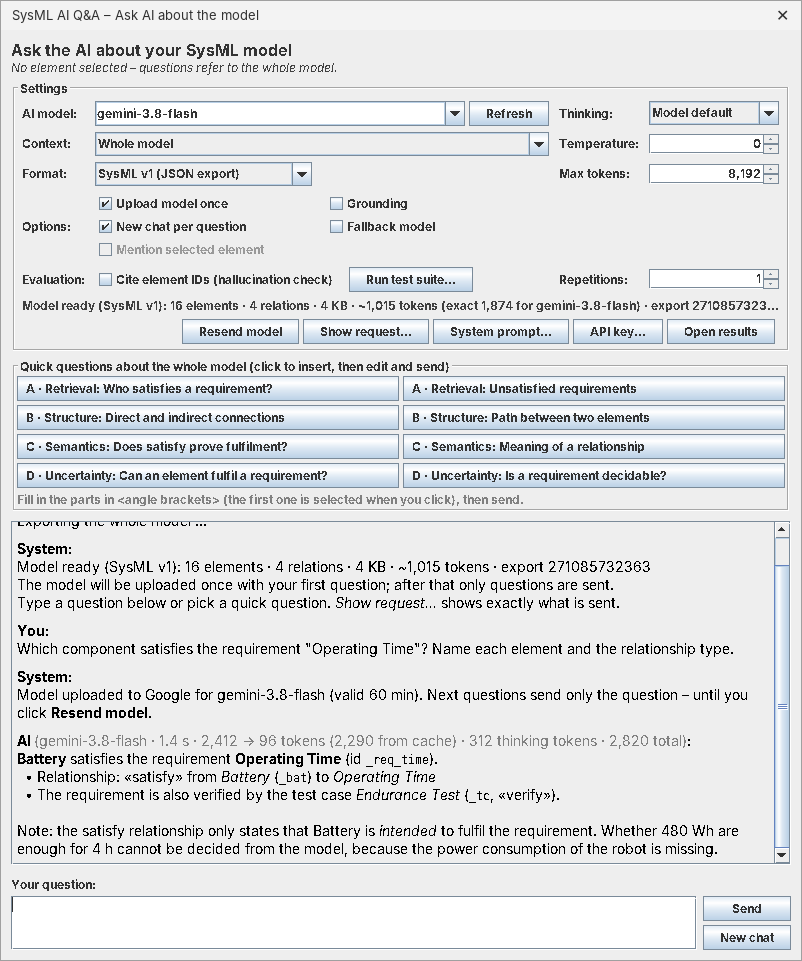
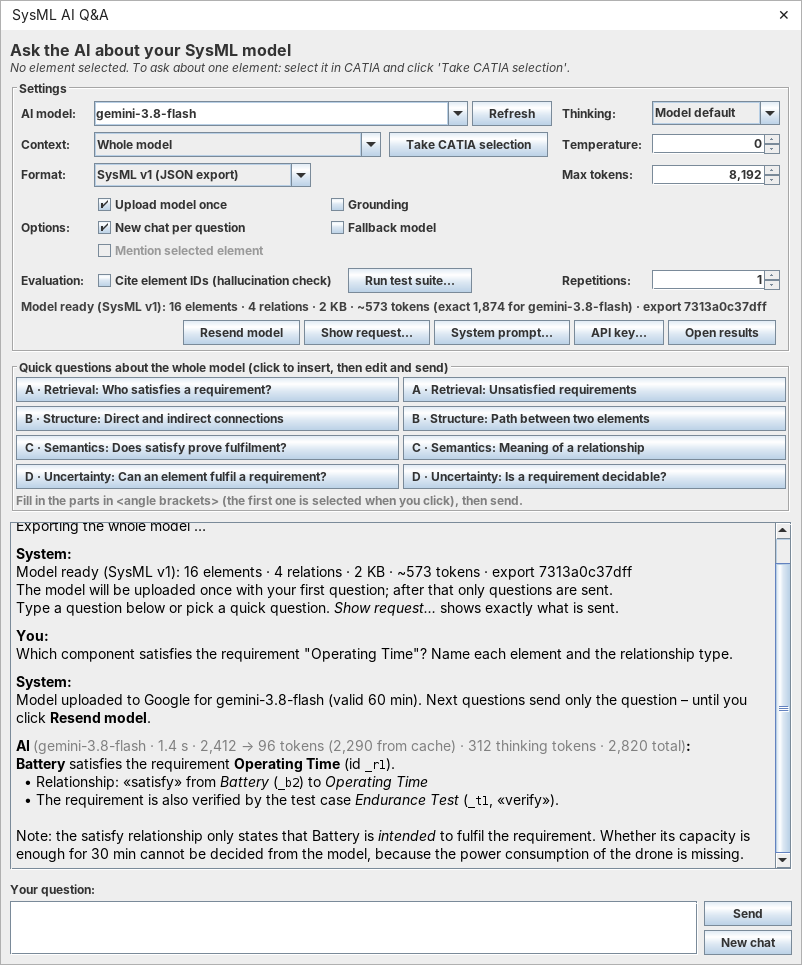
Handbook for v3.5: new window screenshots, button renamed
- Window screenshots regenerated for the new flow (export on button, fixed
  title, greyed context option, Take CATIA selection): start-05, start-06,
  window-numbered, settings-numbered, window-element, context-selection,
  chat-answer, stop-button, window-sysml2, format-sysml2,
  test-suite-finished; new context-unavailable.png.
- "Use selection" in the main window renamed to "Take CATIA selection" so it
  is not confused with "Use selection" in the package picker; disabled for
  SysML v2 models like the context field.
- HANDBUCH: captions and SysML v2 steps adjusted.

Claude-Session: https://claude.ai/code/session_01PMQtB66WZdP54zdPYPKWFc

Changed region(s): [[0.0, 0.0, 0.9975, 0.9365], [0.8416, 0.9365, 0.9975, 0.999], [0.0, 0.2185, 0.0935, 0.2497]]

diff --git a/src/de/hm/sysmlaiqa/ui/ExplanationDialog.java b/src/de/hm/sysmlaiqa/ui/ExplanationDialog.java
@@ -60,6 +60,7 @@ public class ExplanationDialog extends JDialog {
     private Element focusElement;          // angeklicktes/übernommenes Element (darf null sein)
     private JLabel focusLabel;
     private JButton exportBtn;
+    private JButton useSelectionBtn;
     private String exportedKey = null;      // Context des aktuellen Exports (siehe exportKey())
     private JPanel quickPanel;
     private long quickSeed = System.nanoTime();
@@ -111,7 +112,7 @@ public class ExplanationDialog extends JDialog {
 
     /**
      * @param focusElement angeklicktes bzw. ausgewähltes Element (darf null sein). Es ist im Context-Feld als
-     *                     "Selected element + surroundings" wählbar und kann im Fenster mit "Use selection" ersetzt werden.
+     *                     "Selected element + surroundings" wählbar und kann im Fenster mit "Take CATIA selection" ersetzt werden.
      */
     public ExplanationDialog(Element focusElement) {
         // Kein "always on top" mehr: Das Fenster gehört zum CATIA-Hauptfenster. Es bleibt dadurch über CATIA,
@@ -191,7 +192,7 @@ public class ExplanationDialog extends JDialog {
 
     private String focusText() {
         return focusElement == null
-                ? "No element selected. To ask about one element: select it in CATIA and click 'Use selection'."
+                ? "No element selected. To ask about one element: select it in CATIA and click 'Take CATIA selection'."
                 : "Selected element: " + getFocusName() + " [" + focusElement.getHumanType() + "]";
     }
 
@@ -228,7 +229,7 @@ public class ExplanationDialog extends JDialog {
                 if (unavailable) {
                     setForeground(UIManager.getColor("Label.disabledForeground") != null
                             ? UIManager.getColor("Label.disabledForeground") : Color.GRAY);
-                    setToolTipText("No element selected – select one in CATIA and click 'Use selection'.");
+                    setToolTipText("No element selected – select one in CATIA and click 'Take CATIA selection'.");
                 } else {
                     setToolTipText(null);
                 }
@@ -243,7 +244,7 @@ public class ExplanationDialog extends JDialog {
         chooseBtn.addActionListener(e -> {
             if (chooseSelection()) updateControls();
         });
-        JButton useSelectionBtn = new JButton("Use selection");
+        useSelectionBtn = new JButton("Take CATIA selection");
         useSelectionBtn.setToolTipText("<html>Takes the element currently selected in CATIA (containment tree, diagram or table row)<br>"
                 + "as the selected element and switches the context to 'Selected element + surroundings'.</html>");
         useSelectionBtn.addActionListener(e -> useCurrentSelection());
@@ -402,7 +403,7 @@ public class ExplanationDialog extends JDialog {
                 loading = true;
                 scopeBox.setSelectedItem(lastScopeChoice);
                 loading = false;
-                addMessage("System", "No element selected. Select an element in CATIA and click <b>Use selection</b>.");
+                addMessage("System", "No element selected. Select an element in CATIA and click <b>Take CATIA selection</b>.");
                 return;
             }
             if (isSelectionScope() && selectedRoots.isEmpty() && !chooseSelection()) {
@@ -808,7 +809,7 @@ public class ExplanationDialog extends JDialog {
         return true;
     }
 
-    /** "Use selection": das in CATIA ausgewählte Element übernehmen und den Context darauf stellen. */
+    /** "Take CATIA selection": das in CATIA ausgewählte Element übernehmen und den Context darauf stellen. */
     private void useCurrentSelection() {
         if (busy) return;
         Element el = null;
@@ -819,7 +820,7 @@ public class ExplanationDialog extends JDialog {
         }
         if (el == null) {
             addMessage("System", "No element selected in CATIA. Click an element in the containment tree, a diagram "
-                    + "or a table row, then click <b>Use selection</b> again.");
+                    + "or a table row, then click <b>Take CATIA selection</b> again.");
             return;
         }
         focusElement = el;
@@ -1489,6 +1490,7 @@ public class ExplanationDialog extends JDialog {
             suiteBtn.setEnabled(!busy && export != null && !exportOutdated());
         }
         scopeBox.setEnabled(!busy && !nativeV2);
+        if (useSelectionBtn != null) useSelectionBtn.setEnabled(!busy && !nativeV2);
         if (exportBtn != null) {
             exportBtn.setEnabled(!busy);
             exportBtn.setText(export == null || exportOutdated() ? "Export model" : "Resend model");

diff --git a/HANDBUCH.md b/HANDBUCH.md
@@ -36,13 +36,15 @@ In einer **Requirement-Tabelle** erscheint beim Rechtsklick kein Eintrag. Dann d
 
 Das Fenster öffnet sich **ohne Export**. Zuerst **Context** (ganzes Modell, ausgewählte Pakete oder ausgewähltes Element mit Umgebung) und **Format** wählen, dann **Export model** klicken. Erst jetzt exportiert das Plugin aus CATIA; das dauert je nach Modellgröße einige Sekunden. Danach steht im Einstellungsbereich **Model ready (SysML v1): …** mit der Anzahl der Elemente und Beziehungen, der Größe und den Tokens. Kurz darauf ergänzt das Plugin die **exakte** Tokenzahl für das gewählte KI-Modell (*exact … for …*). Der Context vom letzten Mal ist voreingestellt.
 
-![Das Plugin-Fenster in CATIA nach dem Export (Fenster für ein Element)](docs/images/start-05-plugin-window.png)
+![Das Fenster direkt nach dem Öffnen: Context und Format wählen, dann Export model](docs/images/start-06-plugin-window-model.png)
 
-Oben steht das ausgewählte Element (*Selected element: …*) oder, wenn keins ausgewählt ist, ein Hinweis. Ohne ausgewähltes Element ist im Context-Feld *Selected element + surroundings* **grau**; beim Darüberfahren steht der Grund. Mit **Use selection** übernimmt das Plugin das gerade in CATIA markierte Element, ohne dass das Fenster neu geöffnet werden muss. Während des Exports sind *Context*, *Format* und *Run test suite…* ausgegraut, unten steht *Busy…*. Sobald **Model ready** erscheint, ist alles bedienbar.
+![Das Fenster nach Export model: Statuszeile „Model ready“, der Knopf heißt jetzt Resend model](docs/images/start-05-plugin-window.png)
+
+Oben steht das ausgewählte Element (*Selected element: …*) oder, wenn keins ausgewählt ist, ein Hinweis. Ohne ausgewähltes Element ist im Context-Feld *Selected element + surroundings* **grau**; beim Darüberfahren steht der Grund. Mit **Take CATIA selection** übernimmt das Plugin das gerade in CATIA markierte Element, ohne dass das Fenster neu geöffnet werden muss. Während des Exports sind *Context*, *Format* und *Run test suite…* ausgegraut, unten steht *Busy…*. Sobald **Model ready** erscheint, ist alles bedienbar.
+
+![Context ohne ausgewähltes Element: grau, mit Hinweis](docs/images/context-unavailable.png)
 
 **Context nach dem Export geändert?** Dann steht in der Statuszeile *Context changed – click 'Export model'*, und *Send* sowie *Run test suite…* sind gesperrt, bis neu exportiert wurde. So passt das Protokoll immer zum gesendeten Modell. Ein Wechsel zwischen *SysML v1 (JSON export)* und *SysML v2 (converted from v1)* braucht keinen neuen Export.
-
-![Das Fenster für das ganze Modell in CATIA, während der Export läuft](docs/images/start-06-plugin-window-model.png)
 
 ---
 
@@ -75,7 +77,7 @@ Alle Einstellungen werden automatisch gespeichert und beim nächsten Öffnen wie
 | 2 | **Refresh** | Lädt die Liste aller Modelle, die für deinen API-Key verfügbar sind. Wichtig für den Vergleich verschiedener Modellgrößen | – |
 | 3 | **Thinking** | Wie viel die KI vor der Antwort „nachdenkt“: *Model default*, *Minimal*, *Low*, *Medium*, *High*. Weniger Denken ist schneller, kann aber bei indirekten Zusammenhängen schlechter sein. Kann ein Modell die Stufe nicht, wird der Modell-Standard genommen (steht im Log) | Model default |
 | 4 | **Context** | Welcher Teil des Modells an die KI geht: *Whole model*, *Selected packages / elements* oder *Selected element + surroundings* (grau, solange kein Element ausgewählt ist). Nach einem Wechsel **Export model** klicken. Details in [Abschnitt 4](#4-umfang-und-format-wählen) | wie zuletzt |
-| 5 | **Choose…** / **Use selection** | *Choose…* (nur bei *Selected packages / elements*): Pakete oder Elemente im Modellbaum auswählen. *Use selection*: das in CATIA markierte Element übernehmen und Context auf *Selected element + surroundings* stellen | – |
+| 5 | **Choose…** / **Take CATIA selection** | *Choose…* (nur bei *Selected packages / elements*): Pakete oder Elemente im Modellbaum auswählen. *Take CATIA selection*: das in CATIA markierte Element übernehmen und Context auf *Selected element + surroundings* stellen | – |
 | 6 | **Temperature** | Zufälligkeit der Antwort, 0 bis 2. *0* = möglichst gleiche Antworten bei gleicher Frage (empfohlen für Messungen), höher = abwechslungsreicher | 0 |
 | 7 | **Format** | Welches Modell in welcher Form gesendet wird: *SysML v1 (JSON export)* für SysML-v1-Modelle, *SysML v2 (converted from v1)* für dasselbe v1-Modell in SysML-v2-Schreibweise, *SysML v2 model (CATIA export)* für **SysML-v2-Projekte** (siehe [Abschnitt 4](#4-umfang-und-format-wählen)). Jedes Format hat einen eigenen System-Prompt | SysML v1 |
 | 8 | **Depth: relations / neighbours** | Nur bei *Selected element + surroundings*: wie viele Beziehungsschritte vom Element aus verfolgt werden (0–10) und über wie viele Besitzer-Ebenen Nachbarelemente dazukommen (0–5). Nach einer Änderung **Export model** klicken | 5 / 3 |
@@ -118,11 +120,11 @@ Alle Einstellungen werden automatisch gespeichert und beim nächsten Öffnen wie
 
 1. *Context* auf **Selected packages / elements** stellen. Der Auswahldialog öffnet sich beim ersten Mal von selbst, später über **Choose…** (5).
 2. Im Modellbaum ein oder mehrere Pakete oder Elemente markieren (**Strg+Klick** für mehrere). Im Containment Tree markierte Elemente sind schon vorausgewählt.
-3. **Use selection**. Das Plugin exportiert neu, die Statuszeile zeigt die neue Größe.
+3. Im Auswahldialog **Use selection** klicken, dann **Export model**. Die Statuszeile zeigt die neue Größe.
 
 ![Pakete oder Elemente auswählen](docs/images/element-picker.png)
 
-![Context mit gewählten Paketen und dem Knopf Choose…](docs/images/context-selection.png)
+![Context mit gewählten Paketen, Knopf Choose… und Take CATIA selection](docs/images/context-selection.png)
 
 Beziehungen zu Elementen außerhalb der Auswahl bleiben als ID erhalten. Die KI sieht dann, dass es eine Beziehung gibt, aber nicht, wohin sie führt.
 
@@ -141,7 +143,7 @@ In CATIA kann man SysML-v1- und SysML-v2-Modelle anlegen. Das Plugin kann beide 
 1. In CATIA das SysML-v2-Projekt öffnen und das Plugin über **Ask AI → Ask AI…** öffnen.
 2. **Format** auf **SysML v2 model (CATIA export)** stellen.
 3. **Export in CATIA…** (B) klicken. Es öffnet sich der Export von CATIA (*File → Export To → SysML v2 Textual Notation*). Dort die Namespaces wählen, einen Ordner angeben und **Export** klicken.
-4. Im Plugin **Files…** (A) klicken und den Ordner oder die `.sysml`-Dateien wählen. Mehrere Dateien werden zu einem Text zusammengefasst, jede beginnt mit `// ===== File: … =====`.
+4. Im Plugin **Files…** (A) klicken und den Ordner oder die `.sysml`-Dateien wählen (oder **Export model**, um die zuletzt gewählten Dateien zu lesen). Mehrere Dateien werden zu einem Text zusammengefasst, jede beginnt mit `// ===== File: … =====`.
 5. Die Statuszeile zeigt **Model ready (SysML v2 from CATIA)** mit Deklarationen, Beziehungen und Tokens. Jetzt Fragen stellen wie gewohnt.
 
 ![Format SysML v2 model (CATIA export) mit Files… (A) und Export in CATIA… (B)](docs/images/format-sysml2.png)
@@ -152,7 +154,7 @@ Gut zu wissen:
 - **Context** und **Depth** gelten nur für SysML-v1-Modelle und sind bei SysML v2 ausgegraut. Den Umfang wählt man bei SysML v2 im Export-Dialog von CATIA über die **Namespaces**.
 - **Cite element IDs** funktioniert auch bei SysML v2: Die KI nennt dann den qualifizierten Namen, z. B. `[id:RobotSystem::Battery]`, und das Plugin prüft, ob es ihn im Modell gibt.
 - Die Schnellfragen werden aus den Namen im SysML-v2-Text erzeugt.
-- Öffnet man das Plugin in einem SysML-v2-Projekt mit Format *SysML v1*, findet der Export keine SysML-v1-Elemente. Das Plugin weist dann auf das Format *SysML v2 model (CATIA export)* hin.
+- Exportiert man in einem SysML-v2-Projekt mit Format *SysML v1*, findet der Export keine SysML-v1-Elemente. Das Plugin weist dann auf das Format *SysML v2 model (CATIA export)* hin.
 - Warum über den Export von CATIA? CATIA hat für SysML v2 keine dokumentierte Programmierschnittstelle zum Auslesen. Der eigene Export von CATIA liefert die offizielle SysML-v2-Notation unverändert.
 
 ![Das Fenster mit einem SysML-v2-Modell aus CATIA](docs/images/window-sysml2.png)
@@ -233,7 +235,7 @@ Eigene Fassungen liegen unter `Dokumente\SysML-AI-QA\prompts`. Der System-Prompt
 
 ## 8. Fragen zu einem Element
 
-Element per Rechtsklick → **Ask AI…** öffnen (oder im offenen Fenster das Element in CATIA markieren und **Use selection** klicken), *Context* auf **Selected element + surroundings** stellen und **Export model** klicken:
+Element per Rechtsklick → **Ask AI…** öffnen (oder im offenen Fenster das Element in CATIA markieren und **Take CATIA selection** klicken), *Context* auf **Selected element + surroundings** stellen und **Export model** klicken:
 
 ![Fenster für ein einzelnes Element](docs/images/window-element.png)
 

diff --git a/AENDERUNGEN.md b/AENDERUNGEN.md
@@ -7,8 +7,8 @@ Branch: `feature/free-prompt-full-model` (Basis: Stand SoSe 2026, Commit 2606f7d
 - **Export erst per Knopf:** Das Fenster exportiert beim Öffnen nichts mehr. Erst *Context* und *Format* wählen, dann **Export model** klicken. Nach dem ersten Export heißt der Knopf wieder **Resend model**. Wird *Context* oder *Depth* danach geändert, steht in der Statuszeile *Context changed – click 'Export model'*; *Send* und *Run test suite…* sind bis zum neuen Export gesperrt, damit das Protokoll zum gesendeten Modell passt. Der Wechsel zwischen *SysML v1 (JSON export)* und *SysML v2 (converted from v1)* braucht weiterhin keinen neuen Export.
 - **Ein Menüeintrag „Ask AI…“** statt „Ask AI about the model…“, „Ask AI about this element…“ und „Ask AI about the selected element…“ (Rechtsklick und Menüleiste). Das angeklickte bzw. markierte Element wird mitgegeben und ist unter *Context* wählbar. Voreingestellt ist der zuletzt benutzte Context.
 - **Fester Fenstertitel** „SysML AI Q&A“; er hing bisher vom Menüeintrag ab und stimmte nach einem Context-Wechsel nicht mehr.
-- **Context ohne ausgewähltes Element:** *Selected element + surroundings* ist grau statt unsichtbar, beim Darüberfahren steht der Grund. Neuer Knopf **Use selection** übernimmt das in CATIA markierte Element, ohne das Fenster neu zu öffnen.
-- Log unverändert (neue `plugin_version`). Die Bilder im Handbuch zeigen noch den alten Stand.
+- **Context ohne ausgewähltes Element:** *Selected element + surroundings* ist grau statt unsichtbar, beim Darüberfahren steht der Grund. Neuer Knopf **Take CATIA selection** übernimmt das in CATIA markierte Element, ohne das Fenster neu zu öffnen.
+- Log unverändert (neue `plugin_version`). Die Fensterbilder im Handbuch sind neu; die Menübilder `start-03-context-menu.png` und `start-04-menu-bar.png` zeigen noch die alten Einträge.
 
 ## v3.4 – SysML-v2-Modelle aus CATIA
 
